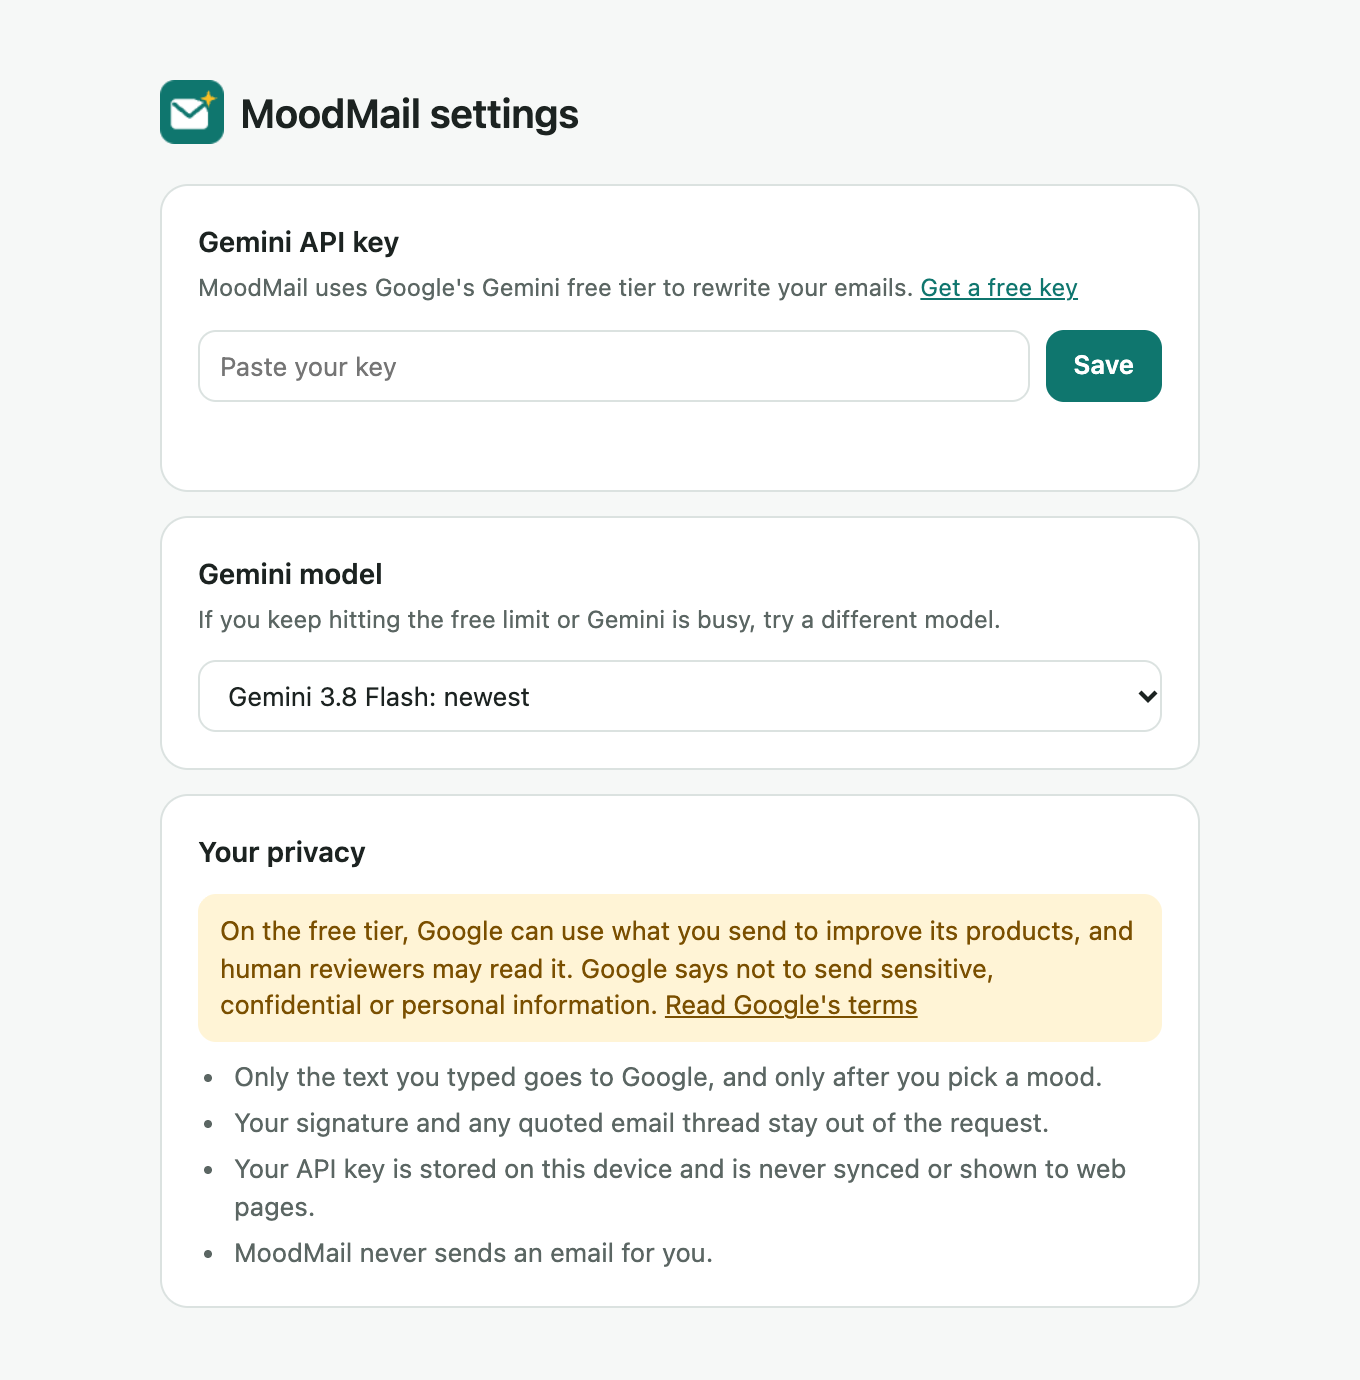
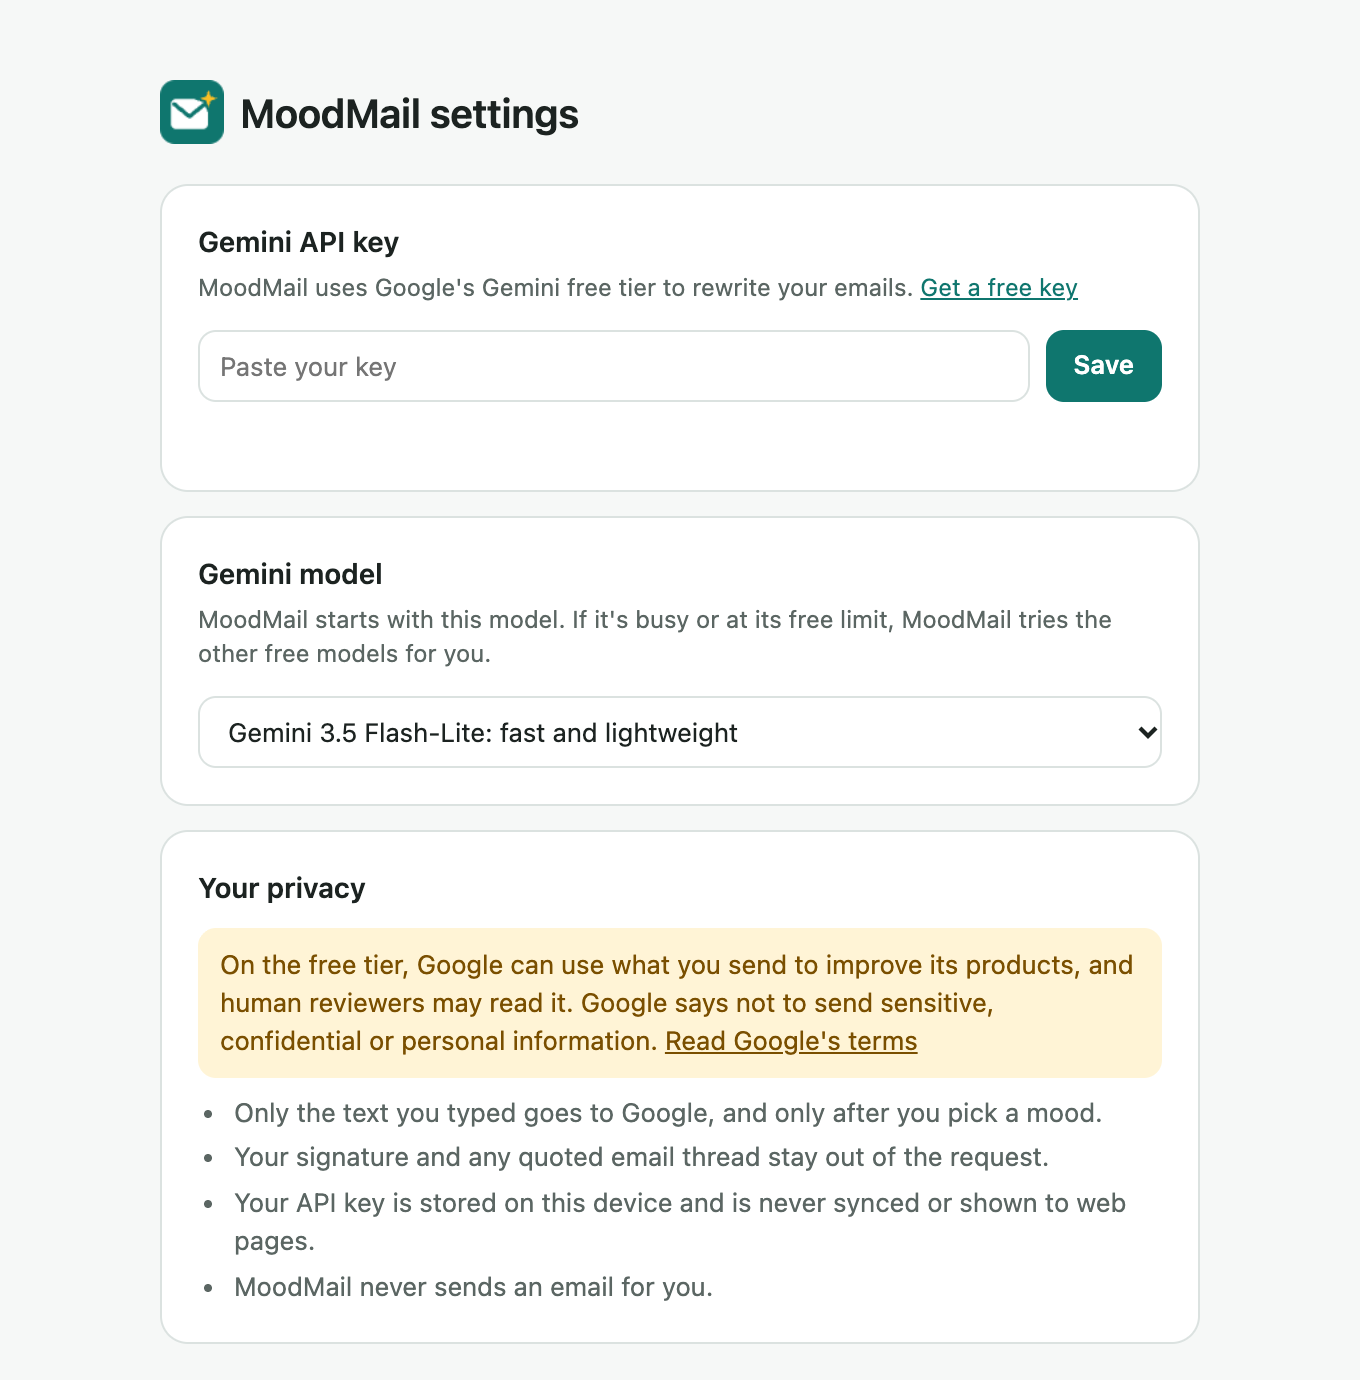
Try each free Gemini model once instead of retrying one
Repeated retries on one overloaded model could use up the free limit
and trigger Chrome's pause on extension requests. Each model is now
asked once per rewrite, the default is Gemini 3.5 Flash-Lite, and error
messages say what actually happened and which models were tried.

Changed region(s): [[0.1235, 0.592, 0.8647, 0.9659], [0.1544, 0.4362, 0.8647, 0.5609]]

diff --git a/background.js b/background.js
@@ -2,9 +2,13 @@
 
 const API_URL = 'https://generativelanguage.googleapis.com/v1beta';
 const API_REVISION = '2026-05-20';
-const DEFAULT_MODEL = 'gemini-3.8-flash';
+const DEFAULT_MODEL = 'gemini-3.5-flash-lite';
+// The free models, in the order MoodMail falls back through them.
+const FREE_MODELS = ['gemini-3.5-flash-lite', 'gemini-3.6-flash', 'gemini-3.8-flash'];
+// Capacity, limits and supported options differ by model, so these failures are worth trying elsewhere.
+const TRY_NEXT_MODEL = new Set(['busy', 'limit', 'model', 'request']);
 const REQUEST_TIMEOUT_MS = 60_000;
-const MAX_ATTEMPTS = 3;
+const MAX_NETWORK_ATTEMPTS = 3;
 const BLOCKED_CODES = new Set(['safety', 'recitation', 'prohibited_content', 'spii', 'blocklist']);
 
 const SYSTEM_PROMPT = `You edit email drafts for the person who wrote them. Each message gives you a draft and the mood the writer wants. Return the finished email in the "email" field.
@@ -57,11 +61,16 @@ function errorForStatus(status, error) {
       return new MoodMailError('key', detail || 'This API key is not allowed to do that. Check it in Settings.', true);
     case 404:
       return new MoodMailError('model', 'That Gemini model is not available. Pick another in Settings.', true);
-    case 429:
-      return new MoodMailError('limit', "You've hit Gemini's free limit. Wait a minute and try again. Daily limits reset at midnight Pacific time.");
-    default:
-      return new MoodMailError('busy', 'Gemini is busy right now. Try again in a moment.');
+    case 429: {
+      const limit = new MoodMailError('limit', "You've hit Gemini's free limit. Wait a minute and try again. Daily limits reset at midnight Pacific time.");
+      limit.daily = error?.code === 'quota_exceeded' || /per.?day|daily/i.test(detail || '');
+      return limit;
+    }
   }
+  if (status === 408 || status >= 500) {
+    return new MoodMailError('busy', 'Gemini is busy right now. Try again in a moment.');
+  }
+  return new MoodMailError('request', detail || `Gemini returned an error (${status}).`);
 }
 
 async function callApi(path, apiKey, init = {}) {
@@ -79,26 +88,67 @@ async function callApi(path, apiKey, init = {}) {
       });
     } catch (err) {
       if (err.name === 'TimeoutError') {
-        throw new MoodMailError('network', 'Gemini took too long to answer. Try again.');
+        throw new MoodMailError('timeout', 'Gemini took too long to answer. Try again.');
       }
-      if (attempt < MAX_ATTEMPTS) {
+      if (attempt < MAX_NETWORK_ATTEMPTS) {
         await sleep(1000 * attempt);
         continue;
       }
-      throw new MoodMailError('network', 'Could not reach Google. Check your connection and try again.');
+      throw new MoodMailError('network', 'Could not reach Google. Check your connection, or wait a minute and try again.');
     }
 
     if (response.ok) return response.json();
 
-    // Free-tier limits take far longer to clear than a quick retry could wait, so 429 is not retried.
-    if ((response.status === 408 || response.status >= 500) && attempt < MAX_ATTEMPTS) {
-      await sleep(1000 * attempt);
-      continue;
-    }
     const body = await response.json().catch(() => null);
     // The interactions endpoint wraps its error in a one-item list. Other endpoints do not.
-    throw errorForStatus(response.status, (Array.isArray(body) ? body[0] : body)?.error);
+    const failure = errorForStatus(response.status, (Array.isArray(body) ? body[0] : body)?.error);
+    failure.status = response.status;
+    throw failure;
   }
+}
+
+function noModelAnswered(failures) {
+  const errors = failures.map(({ error }) => error);
+  const limits = errors.filter((error) => error.code === 'limit');
+  const busy = errors.some((error) => error.code === 'busy');
+  let result;
+  if (errors.some((error) => error.code === 'request')) {
+    result = errors.find((error) => error.code === 'request');
+  } else if (errors.every((error) => error.code === 'model')) {
+    result = errors[0];
+  } else if (errors.some((error) => error.code === 'network')) {
+    result = new MoodMailError('busy', "Gemini is busy, and Chrome has paused MoodMail's requests for a moment. Wait a minute and try again.");
+  } else if (limits.length && busy) {
+    result = new MoodMailError('limit', 'Gemini is busy and some models are at their free limit. Wait a minute and try again.');
+  } else if (limits.length && limits.every((error) => error.daily)) {
+    result = new MoodMailError('limit', "You've used today's free Gemini allowance. It resets at midnight Pacific time.");
+  } else if (limits.length) {
+    result = limits[0];
+  } else {
+    result = new MoodMailError('busy', "Gemini's free models are all busy right now. Your draft is unchanged. Try again in a minute.");
+  }
+  result.tried = failures.map(({ model, error }) => `${model} (${error.status ?? 'no answer'})`).join(', ');
+  return result;
+}
+
+// Each model is asked once per rewrite. Chrome blocks an extension from a URL for a while after
+// repeated server errors, and every model shares this URL, so quick retries would lock MoodMail out.
+async function interact(apiKey, firstModel, request) {
+  const models = [firstModel, ...FREE_MODELS.filter((model) => model !== firstModel)];
+  const failures = [];
+  for (const model of models) {
+    try {
+      return await callApi('/interactions', apiKey, { method: 'POST', body: JSON.stringify({ model, ...request }) });
+    } catch (error) {
+      // After server errors, a request that never leaves the browser is Chrome's block, not the
+      // connection, and the remaining models would only hit the same block.
+      const blocked = error.code === 'network' && failures.some((failure) => failure.error.code === 'busy');
+      if (!blocked && !TRY_NEXT_MODEL.has(error.code)) throw error;
+      failures.push({ model, error });
+      if (blocked) break;
+    }
+  }
+  throw noModelAnswered(failures);
 }
 
 function userMessage(text, mood) {
@@ -114,17 +164,13 @@ async function improve({ text, mood }) {
     throw new MoodMailError('no-key', 'Add your free Gemini API key to start.', true);
   }
 
-  const data = await callApi('/interactions', geminiApiKey, {
-    method: 'POST',
-    body: JSON.stringify({
-      model: geminiModel,
-      system_instruction: SYSTEM_PROMPT,
-      input: userMessage(text, mood),
-      response_format: { type: 'text', mime_type: 'application/json', schema: EMAIL_SCHEMA },
-      generation_config: { thinking_level: 'low' },
-      // Interactions are kept on Google's servers for later retrieval unless this is off.
-      store: false,
-    }),
+  const data = await interact(geminiApiKey, geminiModel, {
+    system_instruction: SYSTEM_PROMPT,
+    input: userMessage(text, mood),
+    response_format: { type: 'text', mime_type: 'application/json', schema: EMAIL_SCHEMA },
+    generation_config: { thinking_level: 'low' },
+    // Interactions are kept on Google's servers for later retrieval unless this is off.
+    store: false,
   });
 
   if (data.status === 'incomplete') {
@@ -168,6 +214,7 @@ async function respond(work, sendResponse) {
       code: known ? err.code : 'unknown',
       message: known ? err.message : 'Something went wrong. Your draft is unchanged.',
       settings: known ? err.settings : false,
+      tried: known ? err.tried : undefined,
     });
   }
 }

diff --git a/content.js b/content.js
@@ -512,6 +512,7 @@
     .plain { display: block; margin: 8px auto 0; }
 
     .body { margin: 6px 0 0; color: var(--muted); }
+    .tried { margin: 6px 0 0; color: var(--muted); font-size: 11.5px; }
     .check { flex: none; width: 16px; height: 16px; color: var(--accent); }
     .warning { margin: 10px 0 0; padding: 7px 9px; border-radius: 8px; background: var(--warn-bg); color: var(--warn-text); font-size: 12px; }
     .actions { display: flex; align-items: center; gap: 6px; margin-top: 10px; }
@@ -762,7 +763,8 @@
           onclick: () => chrome.runtime.sendMessage({ type: 'open-settings' }),
         })
       : el('button', { className: 'action primary', type: 'button', textContent: 'Try again', onclick: retry });
-    showCard(editor, 'error', header(result.message), el('div', { className: 'actions' }, action));
+    const tried = result.tried ? [el('p', { className: 'tried', textContent: `Tried ${result.tried}` })] : [];
+    showCard(editor, 'error', header(result.message), ...tried, el('div', { className: 'actions' }, action));
   }
 
   // The visible part of an element, after any scrolling containers have clipped it.

diff --git a/options.html b/options.html
@@ -28,12 +28,12 @@
 
       <section class="panel">
         <h2><label for="model">Gemini model</label></h2>
-        <p class="hint">If you keep hitting the free limit or Gemini is busy, try a different model.</p>
+        <p class="hint">MoodMail starts with this model. If it's busy or at its free limit, MoodMail tries the other free models for you.</p>
         <div class="field">
           <select id="model">
-            <option value="gemini-3.8-flash">Gemini 3.8 Flash: newest</option>
-            <option value="gemini-3.6-flash">Gemini 3.6 Flash: previous version</option>
-            <option value="gemini-3.5-flash-lite">Gemini 3.5 Flash-Lite: lightweight</option>
+            <option value="gemini-3.5-flash-lite">Gemini 3.5 Flash-Lite: fast and lightweight</option>
+            <option value="gemini-3.6-flash">Gemini 3.6 Flash: balanced</option>
+            <option value="gemini-3.8-flash">Gemini 3.8 Flash: newest, can be busy</option>
           </select>
         </div>
       </section>

diff --git a/options.js b/options.js
@@ -1,4 +1,4 @@
-const DEFAULT_MODEL = 'gemini-3.8-flash';
+const DEFAULT_MODEL = 'gemini-3.5-flash-lite';
 
 const form = document.getElementById('keyForm');
 const keyInput = document.getElementById('apiKey');

diff --git a/README.md b/README.md
@@ -159,6 +159,7 @@ Could you please check them and send me an updated version by Friday?
 - **Your newest words are safe.** If you keep typing while a rewrite runs, MoodMail leaves your draft alone and offers to run it again.
 - **Your cursor stays put.** Move to the subject line during a rewrite and you can keep typing there.
 - **Each compose window is separate.** A rewrite always lands in the window it started from.
+- **A busy model doesn't stop you.** If one free Gemini model is overloaded or at its limit, MoodMail moves on to the next one by itself.
 - **You're in control.** Turn MoodMail off, or stop the automatic prompt and open it only when you want it.
 
 ## A closer look
@@ -244,7 +245,7 @@ You need Google Chrome on a computer and a free Gemini API key.
 ## Good to know
 
 - **Where it runs:** MoodMail is built for Gmail, Outlook on the web and Yahoo Mail in desktop Chrome.
-- **Free-tier limits:** Google limits how much you can use the free tier. If you reach a limit, MoodMail tells you and leaves your draft alone. You can wait a little or switch models in settings.
+- **Free-tier limits:** Google limits how much you can use the free tier, and its free models can get overloaded. MoodMail tries each free model once per rewrite. If none can answer, it tells you why and leaves your draft alone.
 - **Subject lines:** only the message body is rewritten.
 - **Replies between quoted sections:** if you type in several places around a quote, only your first block of text is rewritten.
 
@@ -262,8 +263,10 @@ You need Google Chrome on a computer and a free Gemini API key.
 | :--- | :--- |
 | **No button on the compose box** | Reload the email tab. Then check that MoodMail and Developer mode are both on at `chrome://extensions`. |
 | **"Google rejected your API key"** | Copy the key again from Google AI Studio and make sure you got all of it. |
-| **"You've hit Gemini's free limit"** | Wait a minute and try again, or choose another model in settings. |
-| **"Gemini is busy right now"** | Try again in a moment, or choose another model in settings. |
+| **"Gemini's free models are all busy"** | Google is short on capacity. Wait a minute or two and try again. The card lists which models were tried. |
+| **"You've hit Gemini's free limit"** | Wait a minute and try again. |
+| **"You've used today's free Gemini allowance"** | The daily limit resets at midnight Pacific time. |
+| **"Could not reach Google"** | Check your connection. After several failed tries, Chrome also pauses extension requests for a short time, so wait a minute and try again. |
 | **"MoodMail was updated"** | Reload the email tab. |
 
 </details>
